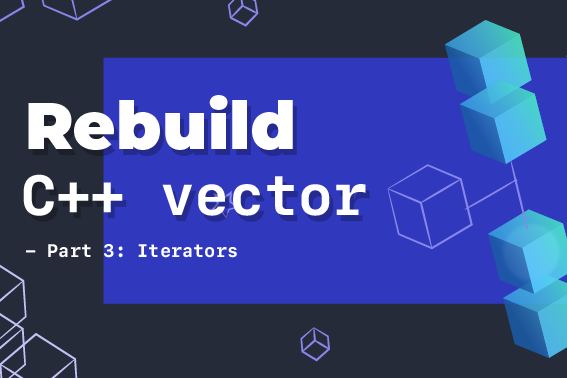
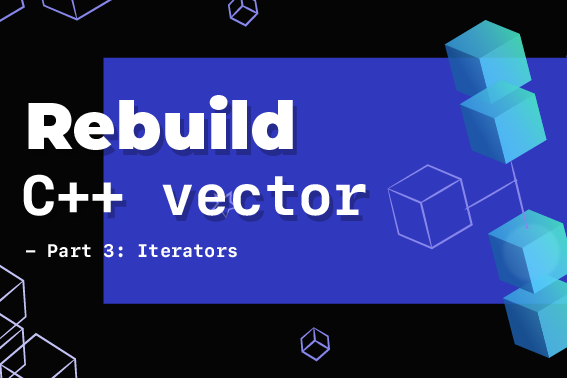
Update better layout for dark theme

diff --git a/src/components/Cards/Featured.tsx b/src/components/Cards/Featured.tsx
@@ -14,6 +14,7 @@ import {
   StyledCardFeaturedSection,
   StyledCardFeaturedTitle,
 } from "./style";
+import Content from "@components/Content";
 
 type FeaturedDataProps = {
   data: Queries.ArticlePageQuery;
@@ -39,7 +40,7 @@ const Featured: React.FC<FeaturedDataProps> = ({ data }) => {
 
       setTransform({
         image: imageTransform > 300 ? 300 : imageTransform,
-        content: contentTransform > 50 ? 50 : contentTransform,
+        content: contentTransform,
         title: titleTransform > 100 ? 100 : titleTransform,
       });
     }
@@ -88,9 +89,11 @@ const Featured: React.FC<FeaturedDataProps> = ({ data }) => {
         />
       </StyledCardFeaturedImage>
       <StyledCardFeaturedContent
+        className={
+          transform.content >= 50 && transform.content < 190 ? "slide-in" : ""
+        }
         style={{
           backfaceVisibility: "hidden",
-          transform: `translateY(${transform.content}px)`,
         }}
       >
         <div className="wrapper">
@@ -101,6 +104,10 @@ const Featured: React.FC<FeaturedDataProps> = ({ data }) => {
           <p className="wrapper__description">
             {mdxNode.frontmatter.description}
           </p>
+          <Content.LabelContainer>
+            <Content.Label>C++</Content.Label>
+            <Content.Label>Gatsby</Content.Label>
+          </Content.LabelContainer>
         </div>
         <img alt={data.file.name} src={data.file.publicURL} className="glow" />
       </StyledCardFeaturedContent>

diff --git a/src/contexts/Theme.tsx b/src/contexts/Theme.tsx
@@ -17,17 +17,17 @@ export const ThemeContext = React.createContext<IThemeContext>(
 ThemeContext.displayName = "MainThemeContext";
 
 const ThemeProvider: React.FC<ThemeContextProps> = ({ children }) => {
-  const [localValue, setlocalValue] = hook.useLocalStorage<ThemeValue>(
+  const [localValue, setLocalValue] = hook.useLocalStorage<ThemeValue>(
     "theme",
-    "light"
+    "dark"
   );
 
   const [theme, setTheme] = React.useState<ThemeValue>("dark");
 
   const toggleTheme = React.useCallback(() => {
-    if (localValue === "light") setlocalValue("dark");
-    else setlocalValue("light");
-  }, [setlocalValue, localValue]);
+    if (localValue === "light") setLocalValue("dark");
+    else setLocalValue("light");
+  }, [setLocalValue, localValue]);
 
   React.useEffect(() => {
     if (typeof document !== "undefined") {

diff --git a/src/pages/articles.tsx b/src/pages/articles.tsx
@@ -17,9 +17,9 @@ type ArticlePageData = Queries.ArticlePageQuery;
 const ArticlePage = ({ data }: PageProps<ArticlePageData>) => {
   return (
     <Layout.Page title="Articles" hideNavbar>
-      <Utility.Container>
-        <Typography.HeroHeadline>
-          <Typography.Gradient color="green">Article</Typography.Gradient> from{" "}
+      <Utility.Container style={{ maxWidth: "1280px" }}>
+        <Typography.HeroHeadline style={{ fontSize: "9.5rem" }}>
+          <Typography.Gradient color="green">Articles</Typography.Gradient> from{" "}
           <Typography.UnderlineText color="green">
             Richard
           </Typography.UnderlineText>

diff --git a/src/components/Cards/style.tsx b/src/components/Cards/style.tsx
@@ -75,6 +75,16 @@ export const StyledCardFeaturedContent = styled.div`
   align-self: flex-start;
   z-index: 1;
 
+  opacity: 0;
+  transform: translateX(-24px);
+  transition: opacity 0.7s cubic-bezier(0.16, 1, 0.3, 1),
+    transform 0.7s cubic-bezier(0.16, 1, 0.3, 1);
+
+  &.slide-in {
+    opacity: 1;
+    transform: scale(1) translateX(0px);
+  }
+
   .wrapper {
     letter-spacing: -1px;
     line-height: 125%;

diff --git a/src/components/Content/style.tsx b/src/components/Content/style.tsx
@@ -439,6 +439,8 @@ export const StyledLabel = styled.li`
   padding-bottom: 7px;
   border-radius: 16px;
   border: 1px solid transparent;
+  letter-spacing: unset;
+  line-height: 1;
 
   display: inline-flex;
   position: relative;
